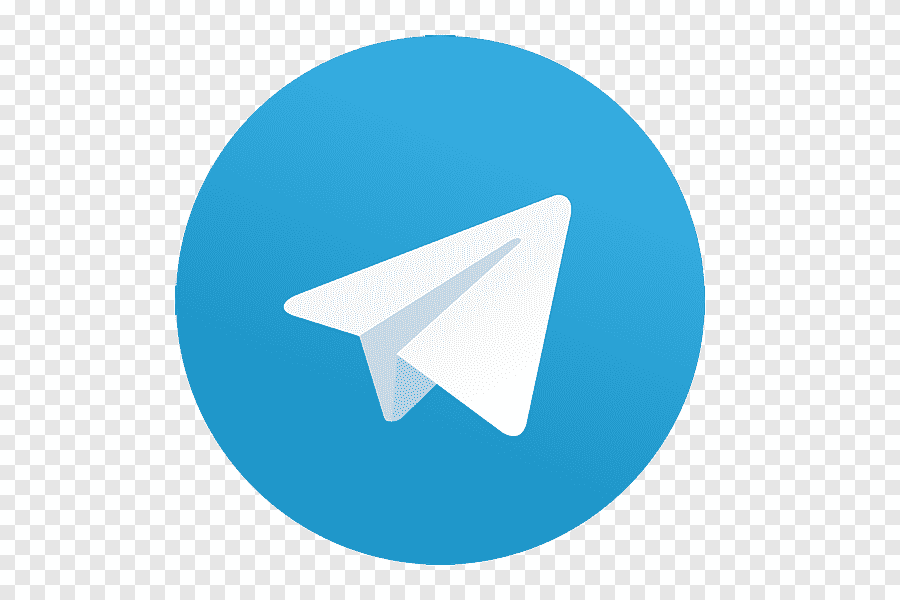
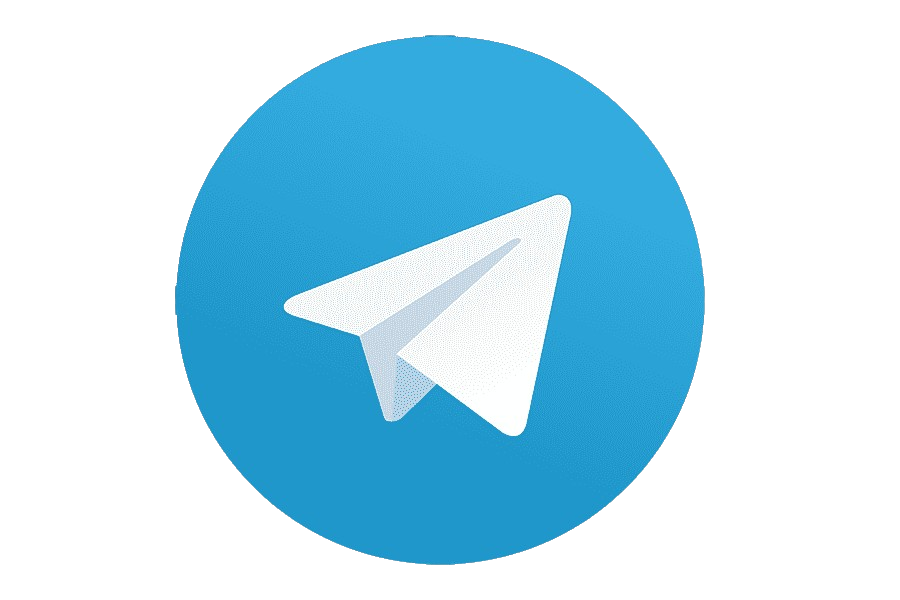
Added contacts and postman

diff --git a/README.md b/README.md
@@ -1,19 +1,12 @@
-## Hi 👋 My name is Andrey Bobb. I'm AQA engineer
+## Hi 👋 My name is Andrey Bobb.
 
-<!--
-**AndreyBobb/AndreyBobb** is a ✨ _special_ ✨ repository because its `README.md` (this file) appears on your GitHub profile.
+- I’m currently learning AQA engineer
 
-Here are some ideas to get you started:
 
-- 🔭 I’m currently working on ...
-- 🌱 I’m currently learning ...
-- 👯 I’m looking to collaborate on ...
-- 🤔 I’m looking for help with ...
-- 💬 Ask me about ...
-- 📫 How to reach me: ...
-- 😄 Pronouns: ...
-- ⚡ Fun fact: ...
--->
+## Contact me
+For direct communication, please use [<img width="6%" title="Telegram" src="images/Telegram.png">](https://t.me/AndreyBobb)
+
+
 
 #### 🛠 Tech Stack:
 <p align="center">
@@ -26,4 +19,8 @@ Here are some ideas to get you started:
 <code><img width="6%" title="JUnit5" src="images/JUnit5.svg"></code>
 <code><img width="6%" title="GitHub" src="images/GitHub.svg"></code>
 <code><img width="6%" title="Jenkins" src="images/Jenkins.svg"></code>
+<code><img width="6%" title="Postman" src="images/Postman.png"></code>
 </p>
+
+
+![Anurag's GitHub stats](https://github-readme-stats.vercel.app/api?username=AndreyBobb&show_icons=true&theme=dark)
